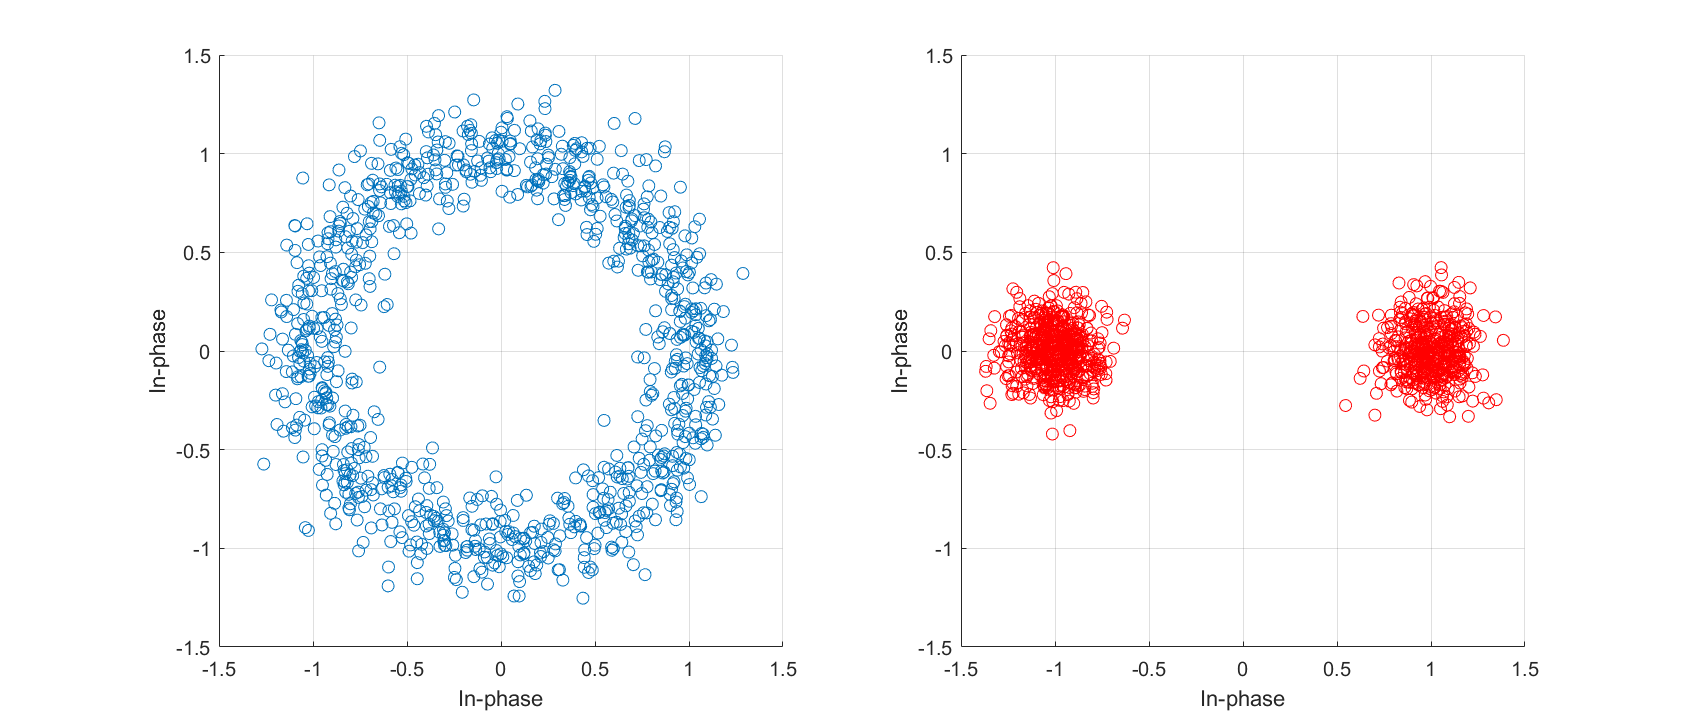
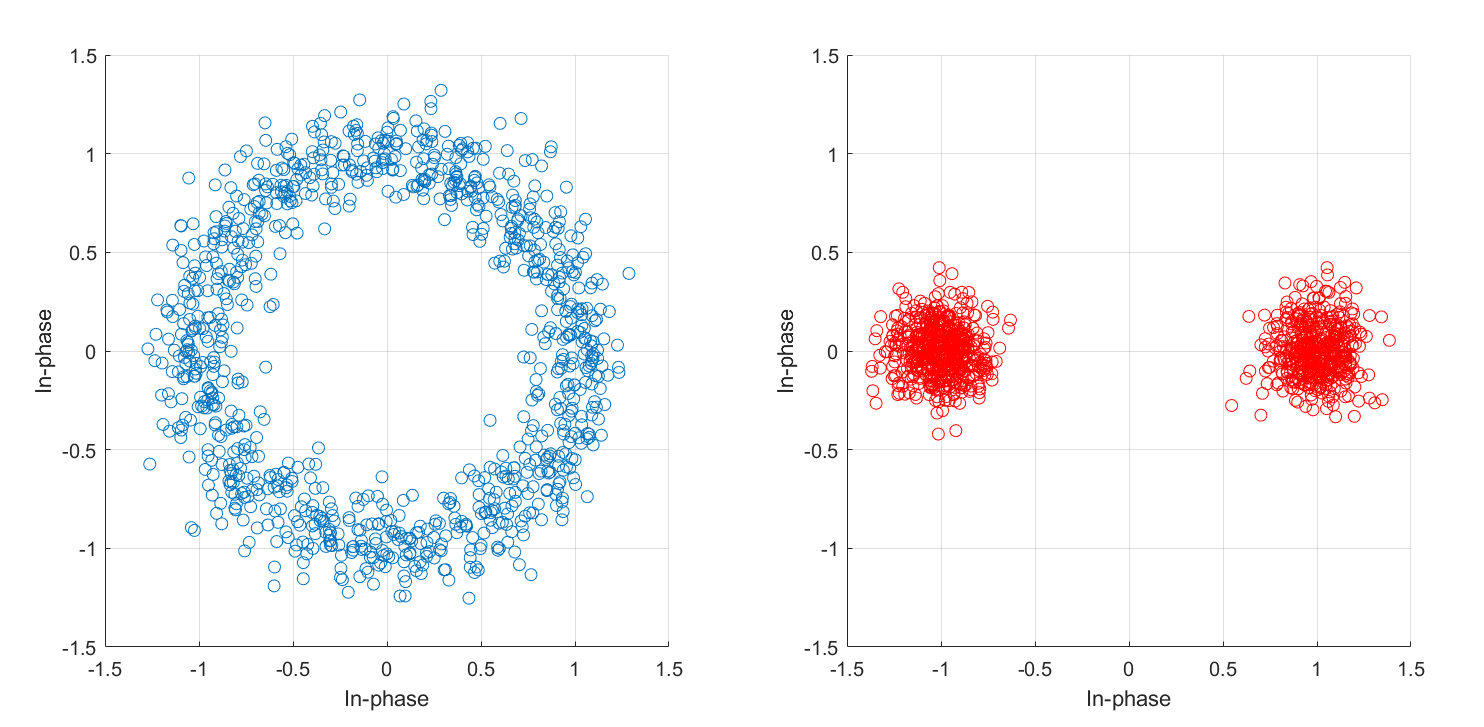
Handling phase ambiguity

diff --git a/6/lab_report.tex b/6/lab_report.tex
@@ -121,12 +121,18 @@ F(z) = G_1 + \frac{G_2}{1-z^{-1}}
 \end{cases}
 \end{equation}
 
-\noindent $B_\text{Loop}$ is then chosen based on the maximum desired frequency locking range $\Delta_{f,\text{lock}}$ as follows:
+\noindent $B_\text{Loop}$ is then chosen to achieve a maximum frequency pull-in range, $\Delta_{f,\text{pull}}$, and a maximum frequency lock delay, $t_{\Delta,\text{Max}}$.
+
+%\begin{equation}
+%	\Delta_{f,\text{lock}} = \frac{4(2\pi\sqrt{2}\zeta{B_\text{Loop}})^2}{B_\text{Loop}^3}
+%\end{equation}
 
 \begin{equation}
-	\Delta_{f,\text{lock}} = \frac{4(2\pi\sqrt{2}\zeta{B_\text{Loop}})^2}{B_\text{Loop}^3}
-\end{equation}
+	\Delta_{f,\text{pull}} \sim 2\pi\sqrt{2}\zeta{B_\text{Loop}}\end{equation}
 
+\begin{equation}
+	t_{\Delta,\text{Max}} \sim \frac{32\zeta^2}{B_\text{Loop}}\end{equation}
+	
 Using the provided equations as template, we implement fine frequency compensation (FFC) in MATLAB. We use data from \texttt{lab6part2.m} to validate our design. Next, we evaluate how the convergence times for our function are affected by different damping factors $\zeta$ and loop bandwidths $B_\text{Loop}$. Then, we compare the phase-corrected constellation to the ideal constellation using an error vector magnitude (EVM) metric, which can be computed as follows:
 
 \begin{equation}
@@ -213,6 +219,16 @@ In this section, we perform coarse frequency correction using an FFT. To remove 
 \noindent Examining the resulting figure, we see that our updated equation correctly compensates for a coarse frequency offset in QPSK-modulated data.
 
 \subsection{Fine Frequency Correction}
+
+In this experiment, we perform fine frequency correction on a DPBPSK signal with a 20Hz frequency offset. With $B_\text{loop} = 0.01$ and $\zeta = 1/\sqrt{2}$, our constellation before and after correction is shown in Figure \ref{fig::fine_freq_comp_bpsk_const}.
+
+\begin{figure}[H]
+	\centerline{\fbox{\includegraphics[width=0.8\textwidth]{fine_freq_comp_bpsk_const.png}}}
+	\caption{DBPSK Constellation Before and After Fine Frequency Compensation}
+	\label{fig::fine_freq_comp_bpsk_const}
+\end{figure}
+
+\noindent Qualitatively examining the figure, we see that the frequency offset has been effectively removed. We can examine the error vector magnitude to assess our error before and after compensation. 
 
 \begin{figure}[H]
 	\centerline{\fbox{\includegraphics[width=0.5\textwidth]{convergence_Bloop_0p01_damp_sqrt_2.png}}}

diff --git a/6/code/lab6part2.m b/6/code/lab6part2.m
@@ -56,7 +56,7 @@ if useBuiltInObj
     carrierSync = comm.CarrierSynchronizer(...
         'SamplesPerSymbol',1,'Modulation',modulation,...
         'NormalizedLoopBandwidth',0.01,...
-        'DampingFactor',0.25);
+        'DampingFactor',sqrt(2));
 else
     carrierSync = CarrierSynchronizer(...
         'SamplesPerSymbol',1,'ModulationOrder',4);
@@ -83,13 +83,31 @@ for k=1:frameSize:numSamples
     if visuals
         step(cdPre,offsetData(timeIndex));step(cdPost,syncData(timeIndex));pause(0.1); %#ok<*UNRCH>
     end
-    
 end
+
+% Compute EVM before and after compensation
+evm = comm.EVM();
+evm_pre_dB = 20*log10(evm(modulatedData(timeIndex),offsetData(timeIndex))/100);
+evm_post_dB = 100;
+symbolOffset = 1;
+for i = 0:(modulationOrder-1)
+    testOffset = exp(1i*2*pi*i/modulationOrder);
+    evm_test_dB = 20*log10(evm(modulatedData(timeIndex)*testOffset,syncData(timeIndex))/100);
+    if evm_test_dB < evm_post_dB
+        evm_post_dB = evm_test_dB;
+        symbolOffset = testOffset;
+    end
+end
+
+% Handle phase ambiguity
+modulatedData = modulatedData*symbolOffset;
 
 % Display EVM
 evm = comm.EVM();
-evm_dB = 20*log10(evm(modulatedData(timeIndex),syncData(timeIndex))/100);
-fprintf('EVM(dB) = %.2f dB\n\n', evm_dB);
+evm_dB = 20*log10(evm(modulatedData(timeIndex),offsetData(timeIndex))/100);
+fprintf('EVM_pre (dB) = %.2f dB\n\n', evm_dB);
+evm_dB = 20*log10(evm(1*modulatedData(timeIndex),syncData(timeIndex))/100);
+fprintf('EVM_post (dB) = %.2f dB\n\n', evm_dB);
 
 % Plot constellations
 figure(1); clf;
